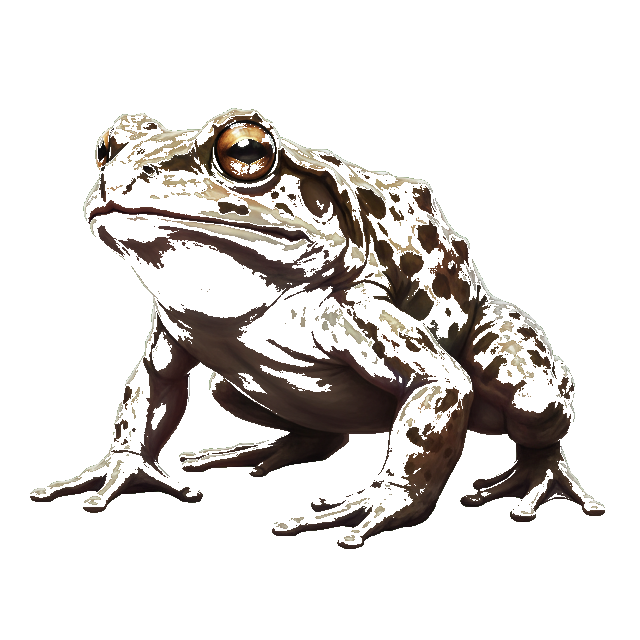
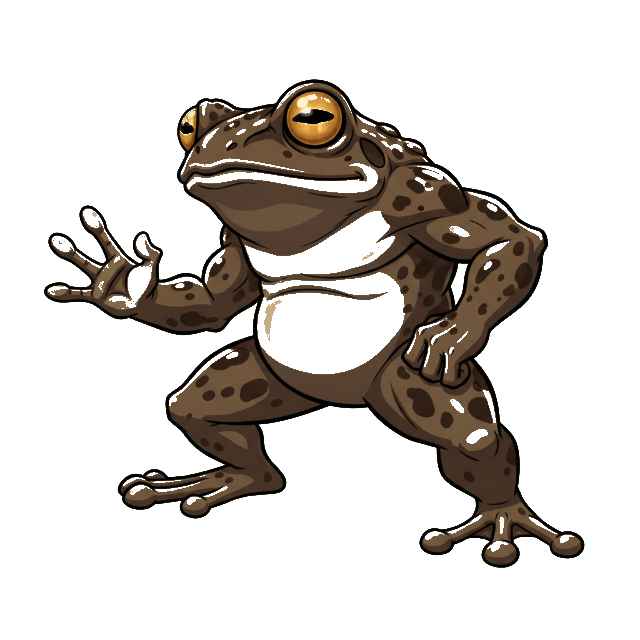
對戰動漫化：動漫地面材質 + 角色動漫立繪直立顯示(比照荒野亂鬥)
- 全套 10 隻重產動漫風(cel-shaded 動漫立繪)，大廳/選角/圖鑑/復育同步套用
- 對戰角色改「直立顯示」：用大廳同一張立繪、不隨面向旋轉、依移動方向左右翻面(守護者圖面向右/入侵種面向左)，含受擊閃白、呼吸縮放、衝刺位移
- 新增 assets/field/ground.png 動漫草原地面材質：世界座標鋪貼只畫可視範圍、罩復原度色調保留枯黃→翠綠回饋、載入前漸層 fallback
- assets/top/ 專屬俯視圖機制保留為優先級①
- window.__spriteOf 橋接 legacy 立繪給 moba；sw 預快取 ground.png
- 無頭實測 0 錯誤；sw.js CACHE v113→v114

Claude-Session: https://claude.ai/code/session_011Jxz2mf3wHUnx2whakaRhC

diff --git a/src/moba.js b/src/moba.js
@@ -63,6 +63,8 @@
   const kbelly=(k)=>KBELLY[k]||"#eadfce", kpat=(k)=>KPAT[k]||"#2c1c0c";
   // 圖檔優先：放 assets/top/<kind>.png(俯視角、面向右、去背)就自動改用寫實圖，沒有就用程式圖
   const SPRITES_TOP={};
+  // 動漫風地面材質（對戰背景基底；沒載到就用漸層 fallback，離線 PWA 不破）
+  const GROUND_IMG=new Image(); GROUND_IMG.onerror=()=>{}; GROUND_IMG.src="assets/field/ground.png";
   ["leopard","bear","cicada","dragonfly","deer","magpie","snail","iguana","frog","ibis","anole","muntjac","macaque","salmon","pheasant","pangolin","yellowmarten","mikado"].forEach(k=>{
     try{ const im=new Image(); im.onload=()=>{ if(im.naturalWidth>0) SPRITES_TOP[k]=im; }; im.onerror=()=>{}; im.src="assets/top/"+k+".png"; }catch(e){} });
 
@@ -750,6 +752,16 @@
     // 棲地：枯黃(低復原) → 翠綠(高復原)
     const top=mix("#8a9a5e","#4a8a3e",restore), bot=mix("#6b7742","#2f6a26",restore);
     const g=ctx.createLinearGradient(0,0,0,VH); g.addColorStop(0,top); g.addColorStop(1,bot); ctx.fillStyle=g; ctx.fillRect(0,0,VW,VH);
+    // 動漫風地面材質(圖檔優先、載入前用上面的漸層 fallback)：世界座標鋪貼只畫可視範圍
+    if(GROUND_IMG.naturalWidth>0){
+      ctx.save(); ctx.scale(zoom,zoom); ctx.translate(-cam.x,-cam.y);
+      const T=520, vw2=VW/zoom, vh2=VH/zoom;
+      const x0=Math.floor(cam.x/T)*T, y0=Math.floor(cam.y/T)*T;
+      for(let ty=y0; ty<cam.y+vh2; ty+=T) for(let tx=x0; tx<cam.x+vw2; tx+=T) ctx.drawImage(GROUND_IMG,tx,ty,T+1,T+1);
+      ctx.restore();
+      // 罩一層復原度色調，保留「枯黃→翠綠」的核心回饋
+      ctx.globalAlpha=0.34; ctx.fillStyle=g; ctx.fillRect(0,0,VW,VH); ctx.globalAlpha=1;
+    }
     ctx.save(); if(mshake>0) ctx.translate((Math.random()-0.5)*mshake,(Math.random()-0.5)*mshake); ctx.scale(zoom,zoom); ctx.translate(-cam.x,-cam.y);
     drawField();
     drawRelics();
@@ -987,13 +999,24 @@
     const breath=1+(u.moving?0:Math.sin(gt*2.2+u.phase)*0.03);
     const lunge=u.atkA>0?Math.sin((1-u.atkA/0.2)*3.14159)*r*0.5:0;
     const gy=u.y-bob-(flyer?r*0.5:0);
-    // 圖檔優先：有寫實貼圖就用圖（面向右，依朝向旋轉）
+    // 圖檔優先①：有專屬俯視圖(assets/top/)就依朝向旋轉貼圖
     const spr=SPRITES_TOP[u.kind];
     if(spr){ const S=r*2.7*(u.elite?1.15:1);
       ctx.fillStyle="rgba(0,0,0,0.22)"; ctx.beginPath(); ctx.ellipse(u.x+r*0.2,u.y+r*0.6,r*1.0,r*0.38,0,0,7); ctx.fill();
       ctx.fillStyle=faction==="inv"?"rgba(239,83,80,0.28)":"rgba(102,187,106,0.34)"; ctx.beginPath(); ctx.ellipse(u.x,u.y+r*0.55,r*1.05,r*0.4,0,0,7); ctx.fill();
       ctx.save(); ctx.translate(u.x+Math.cos(f)*lunge,gy+Math.sin(f)*lunge*0.4); ctx.rotate(f); if(u.hitT>0) ctx.globalAlpha=0.85;
       ctx.drawImage(spr,-S/2,-S/2,S,S); ctx.restore(); return; }
+    // 圖檔優先②：動漫立繪「直立顯示」（比照荒野亂鬥）——用大廳同一張立繪，不隨面向旋轉、只依移動方向左右翻面
+    const bb=window.__spriteOf&&window.__spriteOf(u.kind);
+    if(bb){ const H=r*3.2*(u.elite?1.15:1), W=H*bb.naturalWidth/bb.naturalHeight;
+      ctx.fillStyle="rgba(0,0,0,0.22)"; ctx.beginPath(); ctx.ellipse(u.x+r*0.15,u.y+r*0.6,r*1.05,r*0.4,0,0,7); ctx.fill();
+      ctx.fillStyle=faction==="inv"?"rgba(239,83,80,0.28)":"rgba(102,187,106,0.34)"; ctx.beginPath(); ctx.ellipse(u.x,u.y+r*0.55,r*1.1,r*0.42,0,0,7); ctx.fill();
+      const facingLeft=Math.cos(f||0)<0, flip=(faction==="inv")? !facingLeft : facingLeft;   // 守護者圖面向右、入侵種圖面向左
+      ctx.save(); ctx.translate(u.x+Math.cos(f||0)*lunge, gy+Math.sin(f||0)*lunge*0.3+r*0.6);
+      ctx.scale(flip?-1:1, breath);
+      ctx.drawImage(bb,-W/2,-H,W,H);
+      if(u.hitT>0){ ctx.globalCompositeOperation="lighter"; ctx.globalAlpha=Math.min(0.65,u.hitT*3); ctx.drawImage(bb,-W/2,-H,W,H); }   // 受擊閃白
+      ctx.restore(); return; }
     const bLen=r*cfg.long, bW=r*cfg.wide;
     const proud=(u.mood==="proud" && u.moodT>0 && !angry);
     const OUT=Math.max(2.2,r*0.11);

diff --git a/sw.js b/sw.js
@@ -1,9 +1,9 @@
 // 守土 Service Worker — 線上優先、離線可玩
-const CACHE = "shoutu-v113";
+const CACHE = "shoutu-v114";
 const ASSETS = ["./", "./index.html", "./src/fullscreen.js", "./src/sfx.js", "./src/legacy.js", "./src/moba.js", "./src/battleshop.js", "./src/net.js", "./src/habitat.js", "./src/data/types-chart.js", "./manifest.json", "./icon.svg", "./dino.html",
   // 守護者/入侵種寫實插畫（圖檔優先、沒圖時 canvas fallback）：預快取確保離線也看得到
   "./assets/heroes/leopard.png", "./assets/heroes/bear.png", "./assets/heroes/cicada.png", "./assets/heroes/dragonfly.png", "./assets/heroes/deer.png", "./assets/heroes/magpie.png",
-  "./assets/bosses/snail.png", "./assets/bosses/iguana.png", "./assets/bosses/frog.png", "./assets/bosses/ibis.png"];
+  "./assets/field/ground.png", "./assets/bosses/snail.png", "./assets/bosses/iguana.png", "./assets/bosses/frog.png", "./assets/bosses/ibis.png"];
 
 self.addEventListener("install", (e) => {
   e.waitUntil(caches.open(CACHE).then((c) => c.addAll(ASSETS)).then(() => self.skipWaiting()));

diff --git a/src/legacy.js b/src/legacy.js
@@ -1423,6 +1423,7 @@ import { TYPE, ADV, eff } from "./data/types-chart.js";
   window.__unlockedKeys=()=> HEROES.filter(h=>isHeroUnlocked(h.key)).map(h=>h.key);
   window.__heroList=()=> HEROES.filter(h=>isHeroUnlocked(h.key)).map(h=>({key:h.key,name:h.name}));   // 給好友大廳選角 UI 用的唯讀清單（不含鎖定角色）
   window.__drawCreature=drawCreature;   // 給好友大廳選角頭像用；簽名/畫法完全沿用鐵則內的 drawCreature，不另寫一份繪製邏輯
+  window.__spriteOf=(k)=>{ const s2=SPRITES[k]; return (s2&&s2.naturalWidth>0)?s2:null; };   // 給對戰(moba)取立繪：動漫立繪直立顯示用
   window.__cosmeticOf=(key)=>{ try{ return cosEquipOf(key)||""; }catch(e){ return ""; } };   // 給對戰(moba)讀取某守護者裝備的服裝，讓買的裝飾在戰場也看得到
   window.__heroLevel=(key)=> heroLevel(key);   // 守護者等級（最高 50、永不退級）
   window.__heroTalent=(key)=> talentSummary(key);   // 天賦加成摘要：{path,pathName,tier,mods:{dmg,speed,spCd,dr},active}|null
